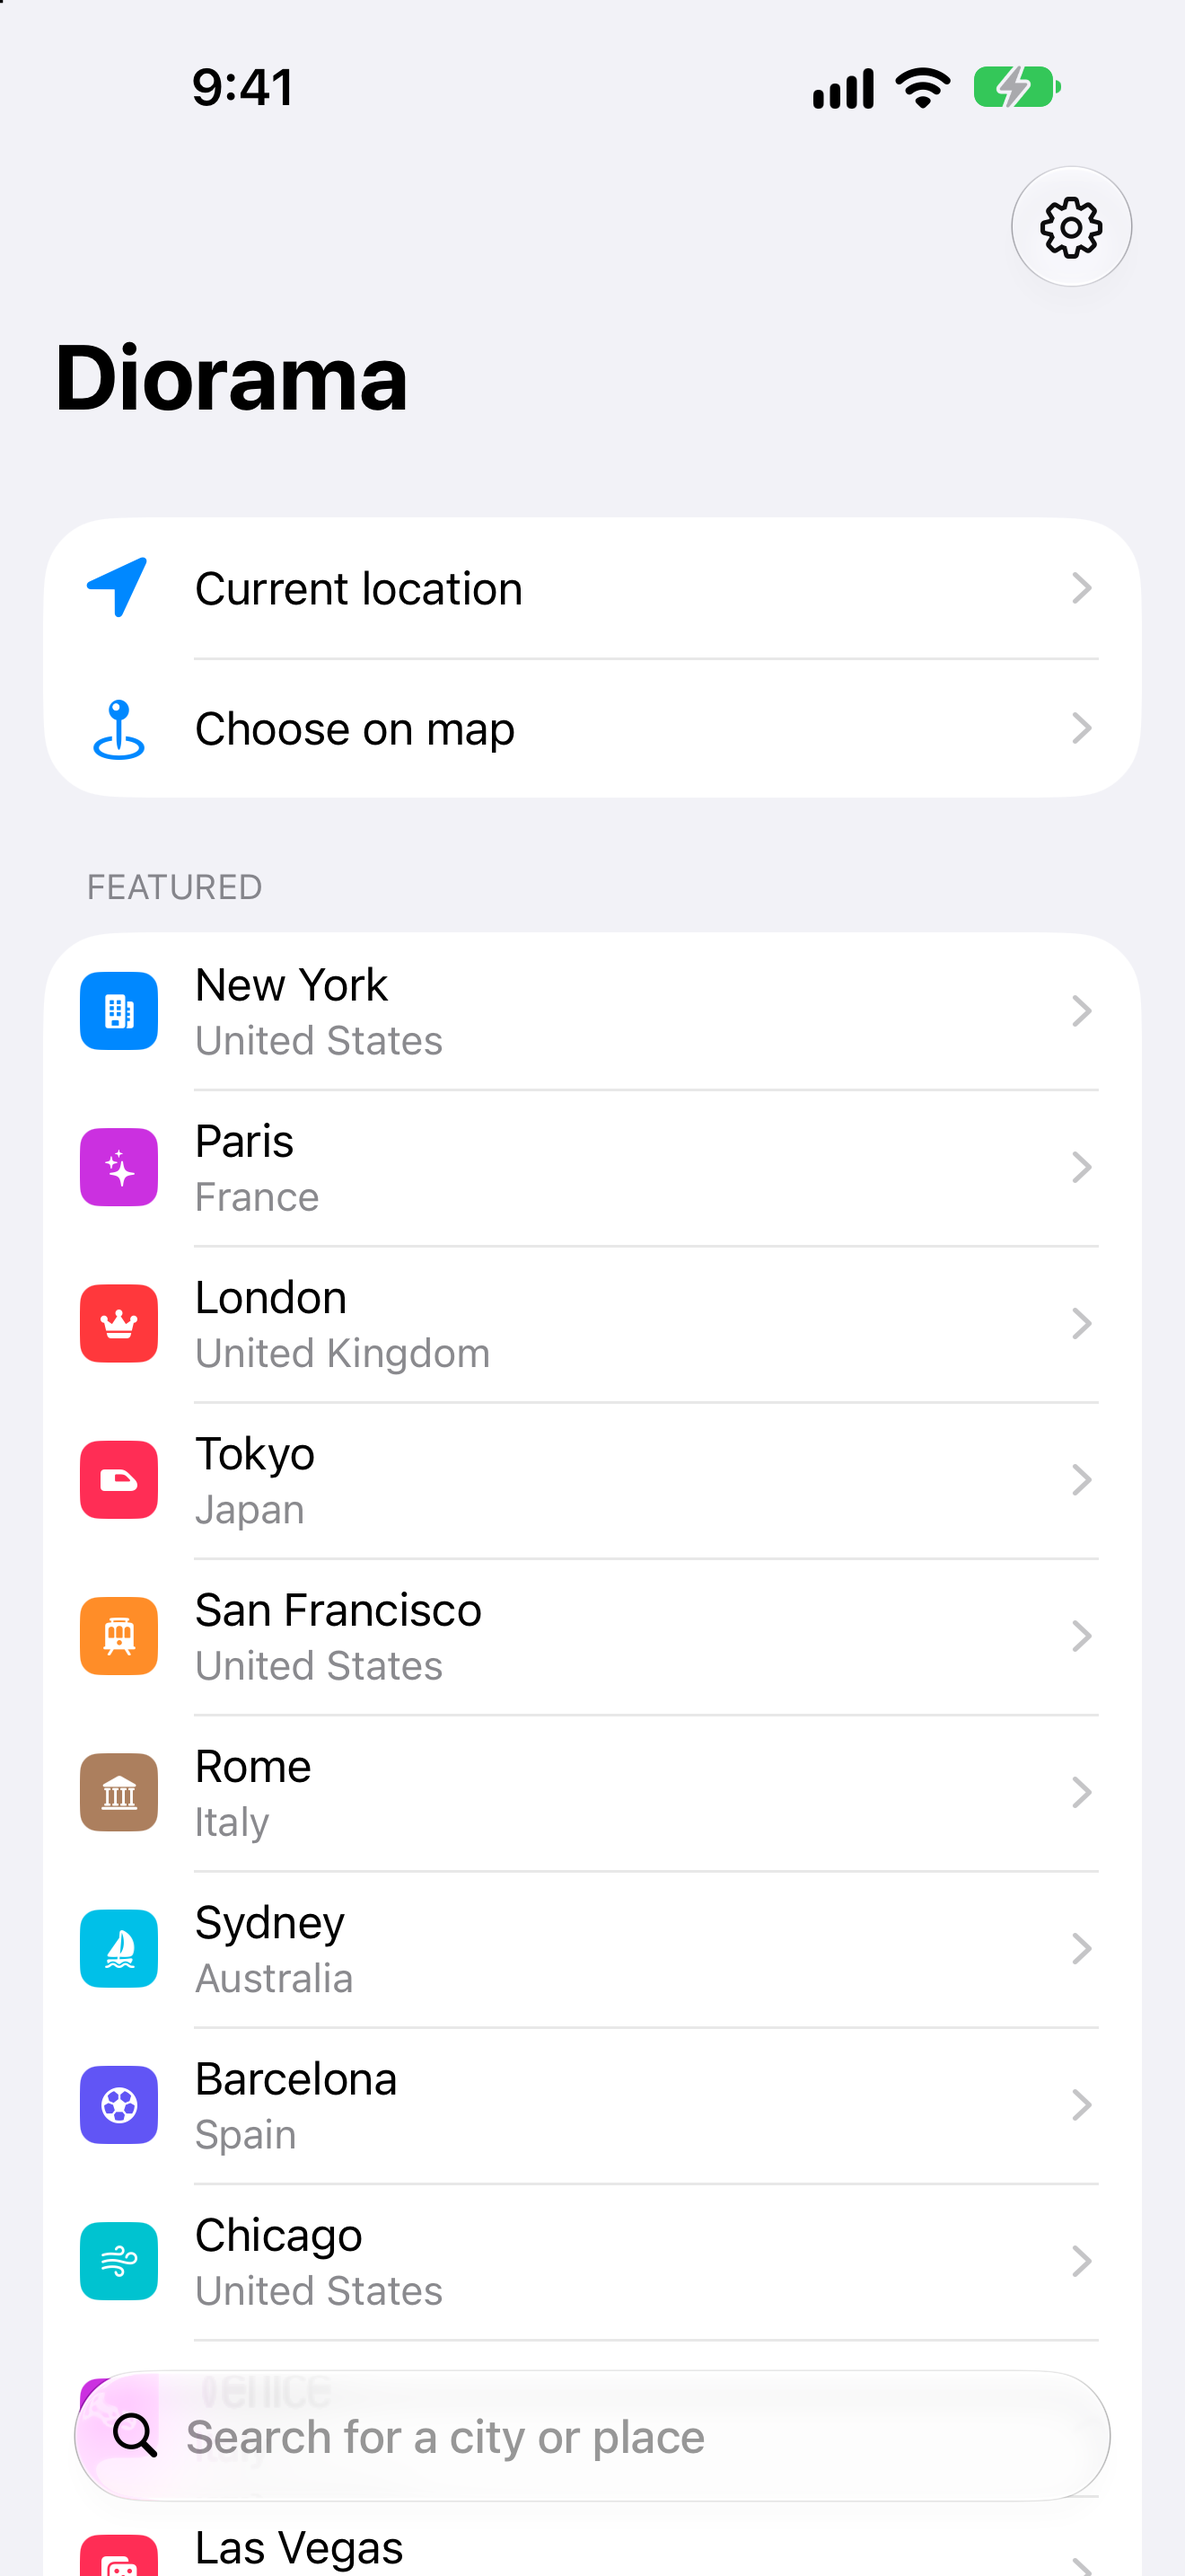
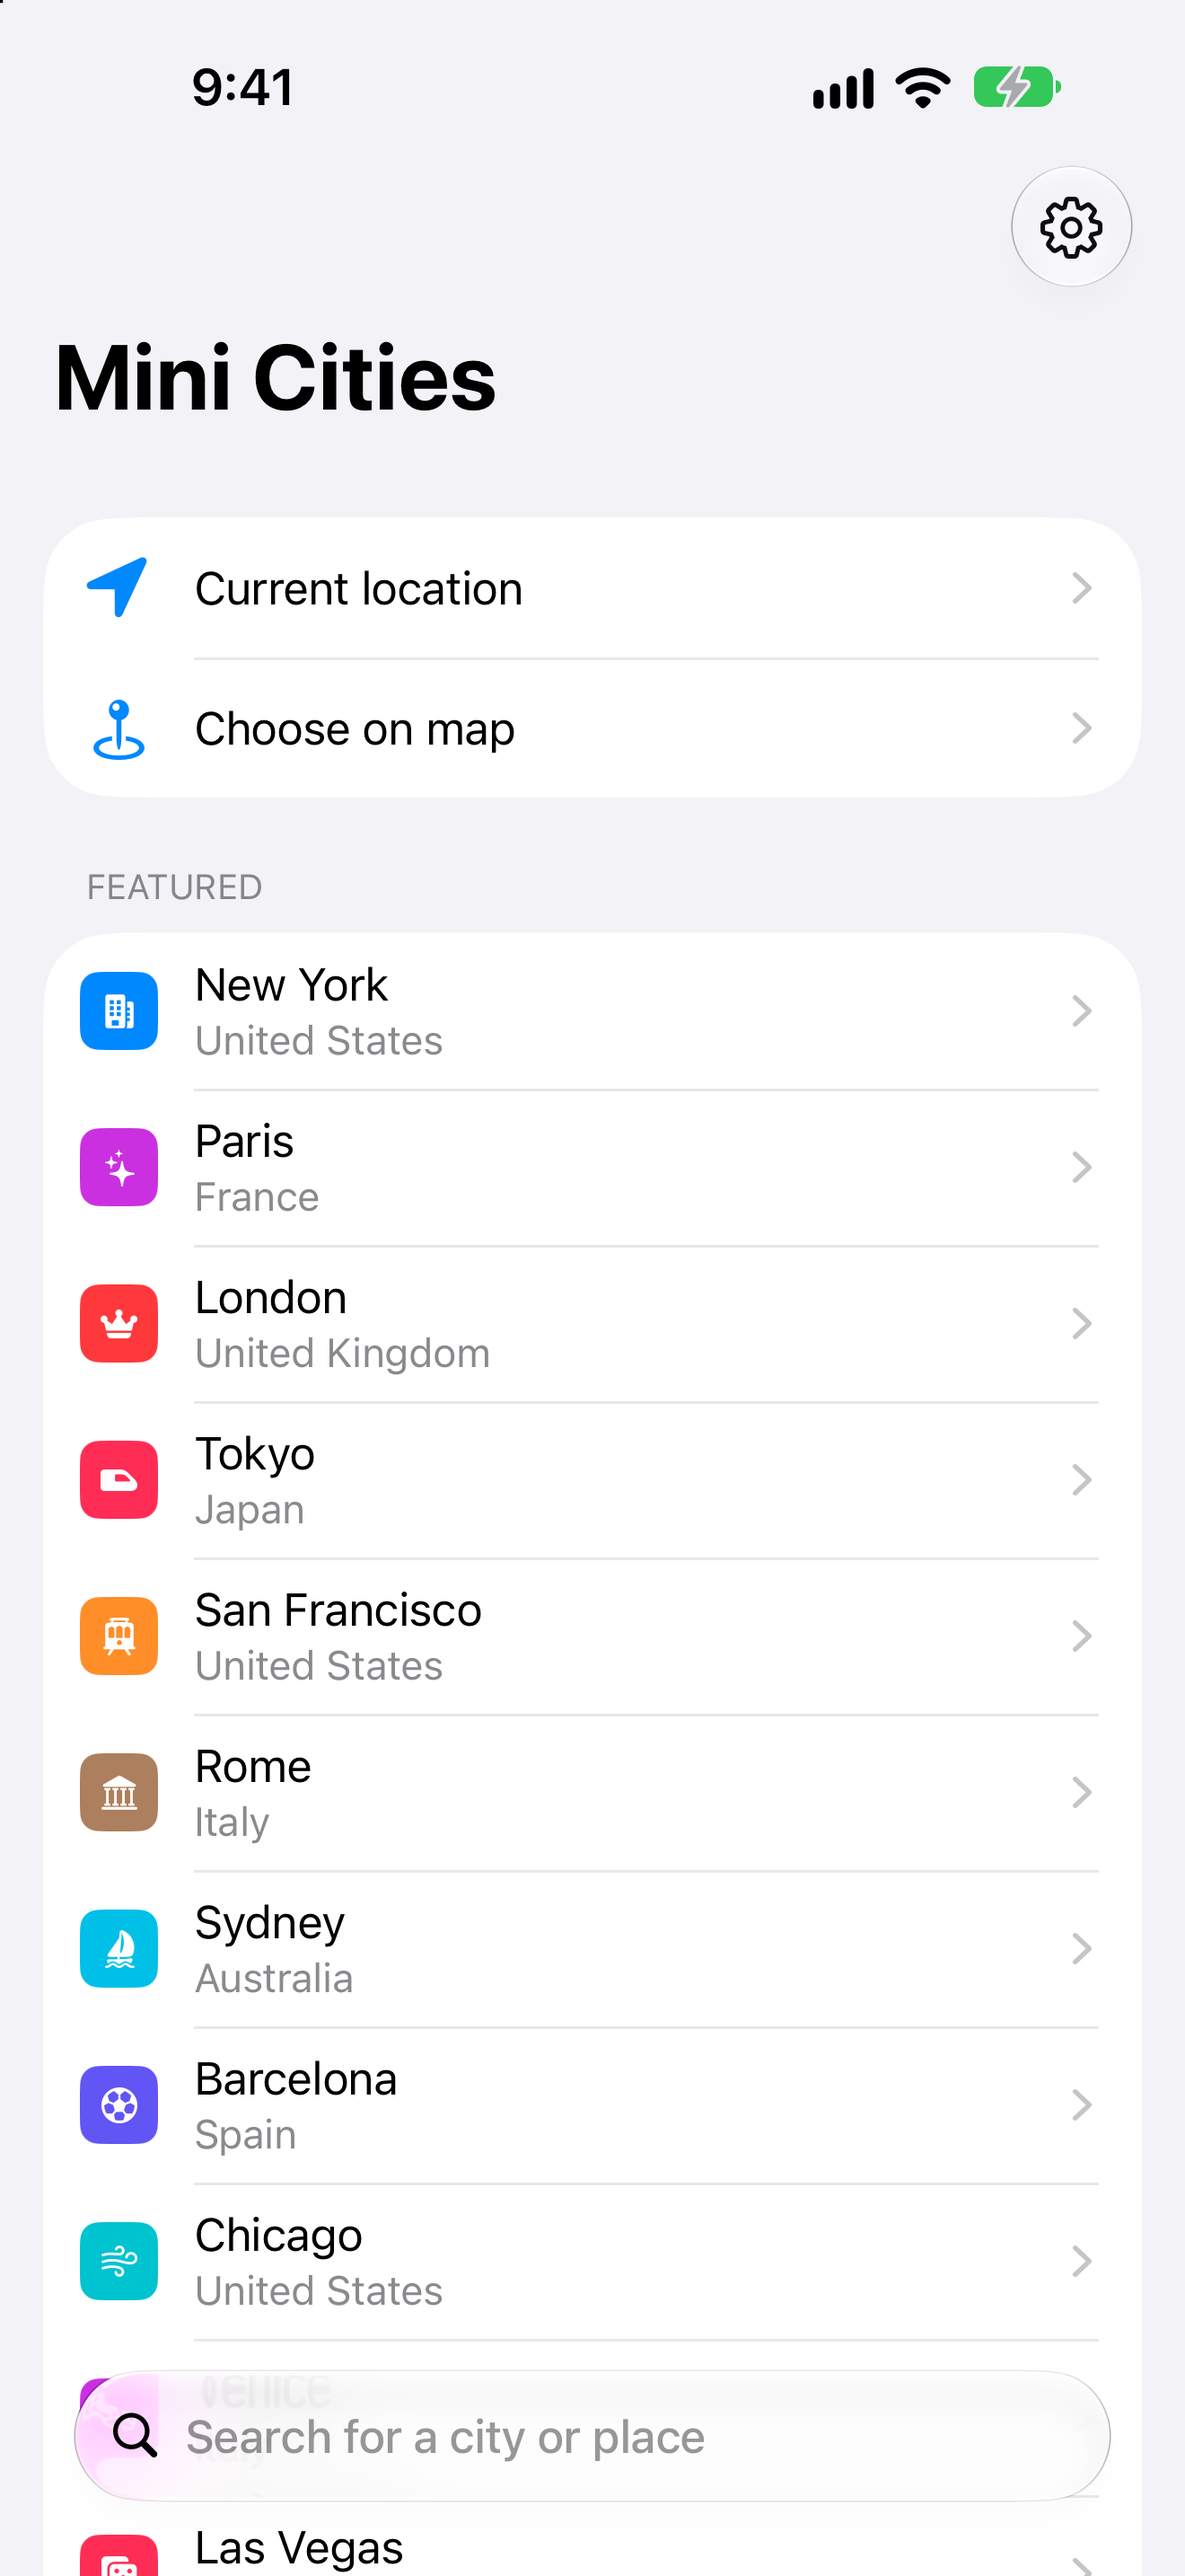
TestFlight for all phone builds: npm run testflight, Mini Cities screenshots
npm run testflight bumps the build number and runs ios:archive --upload,
which now uploads with the Apple ID signed into Xcode when no App Store
Connect API key is set. CLAUDE.md and docs/app-store.md record the
owner's rule: builds for the iPhone go through TestFlight, not the Expo
dev client. Store screenshots regenerated with the Mini Cities name.

Changed region(s): [[0.0621, 0.1241, 0.4348, 0.1862]]

diff --git a/docs/app-store.md b/docs/app-store.md
@@ -65,7 +65,11 @@ The App Store signature needs no certificate on the Mac. Xcode uses the team's c
 
 ## Uploading
 
-Any one of these:
+**The usual way: `npm run testflight`.** It bumps the build number (build numbers can't repeat), archives, and uploads to App Store Connect using the Apple ID signed into Xcode → Settings → Accounts. No API key needed. It needs the Mac's login keychain unlocked, so run it from a terminal on the Mac, not over SSH. Commit the bumped `app.json` afterwards. `npm run ios:archive -- --upload` does the same without bumping.
+
+Owner rule (2026-09-25): every test build for the iPhone goes through TestFlight, not an Expo dev-client install. The App Store Connect record is "Mini Cities" (app ID 6816119568), with an internal testing group set to automatic distribution, so each upload reaches the phone once Apple finishes processing.
+
+Other ways:
 
 - **Terminal, with the API key.** Set the two IDs and run the archive. It uploads instead of writing the `.ipa`:
   ```sh

diff --git a/CLAUDE.md b/CLAUDE.md
@@ -26,5 +26,6 @@ Run two terminals on the Mac:
 
 - `npm run typecheck`, `npm run lint`, `npm test`
 - `npx expo prebuild -p ios` (after native or config changes)
-- `npx expo run:ios` (Simulator: no gyro, use debugLook) / `npx expo run:ios --device` (real motion)
+- `npx expo run:ios` (Simulator: no gyro, use debugLook). The Simulator may use the dev client and Metro for checks.
+- **Builds for the owner's iPhone go through TestFlight, never the Expo dev client** (owner rule, 2026-09-25): `npm run testflight` bumps the build number, archives and uploads (Xcode's Apple ID; needs the Mac's unlocked keychain, not SSH). Commit the bumped `app.json`. Details in `docs/app-store.md` → Uploading.
 - Look at the app without touching it: `xcrun simctl openurl booted "diorama://dev/map"` opens a route, `xcrun simctl io booted screenshot <file>.png` captures the screen (then Read the PNG), `xcrun simctl ui booted appearance dark|light` flips the theme.
